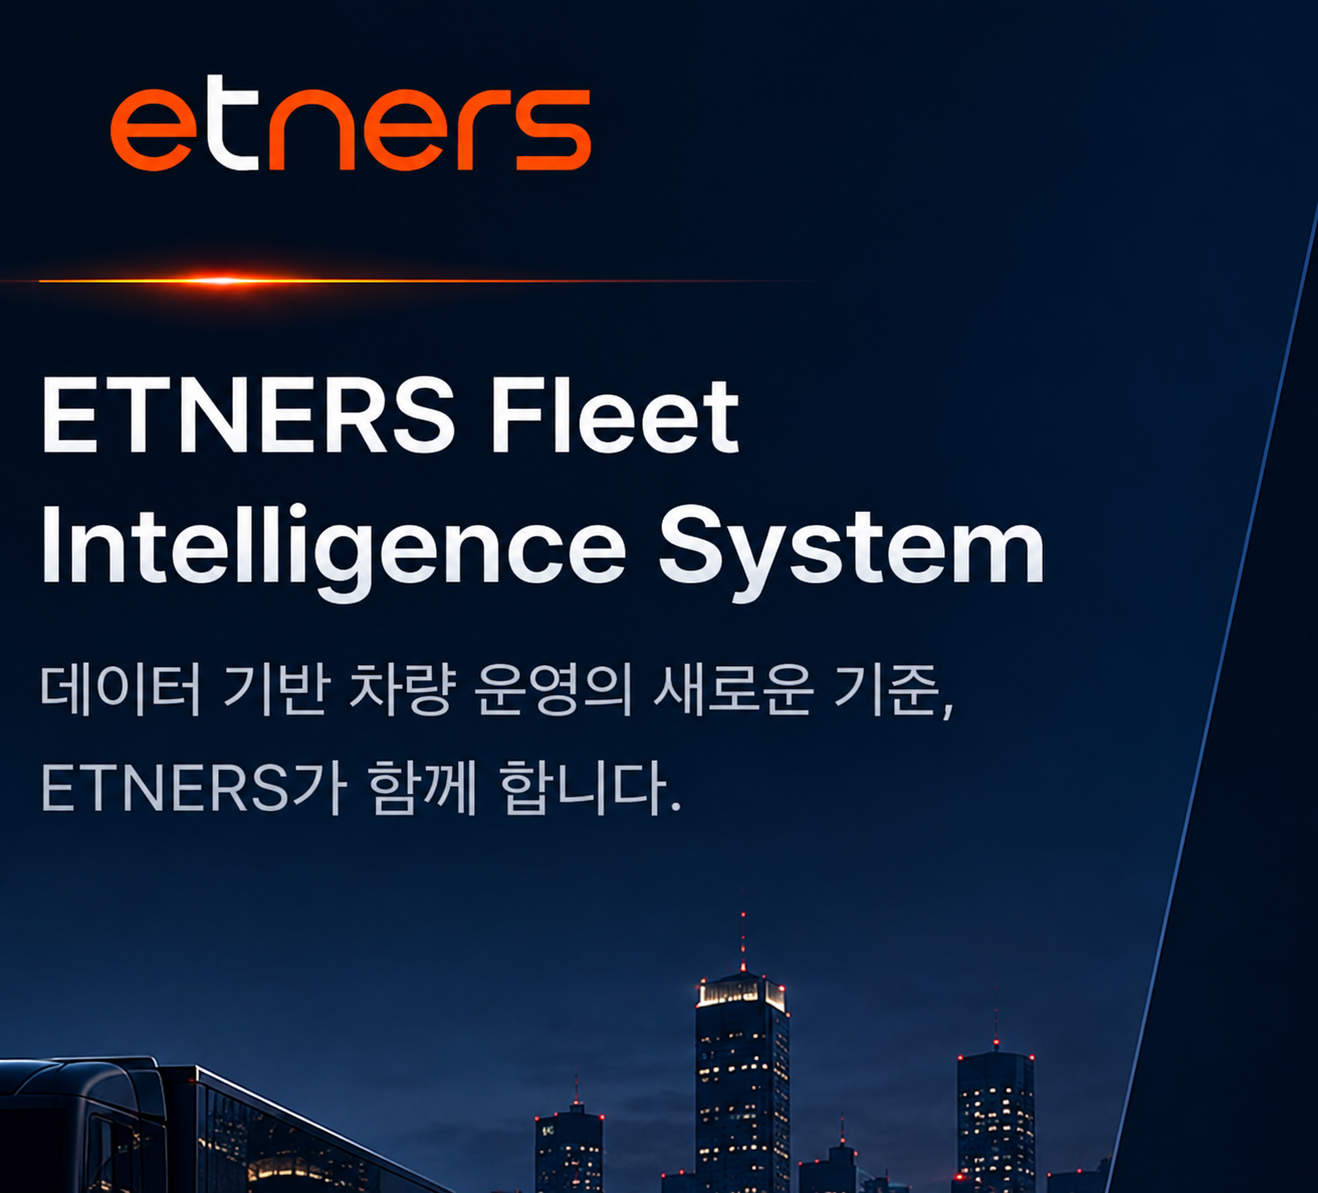
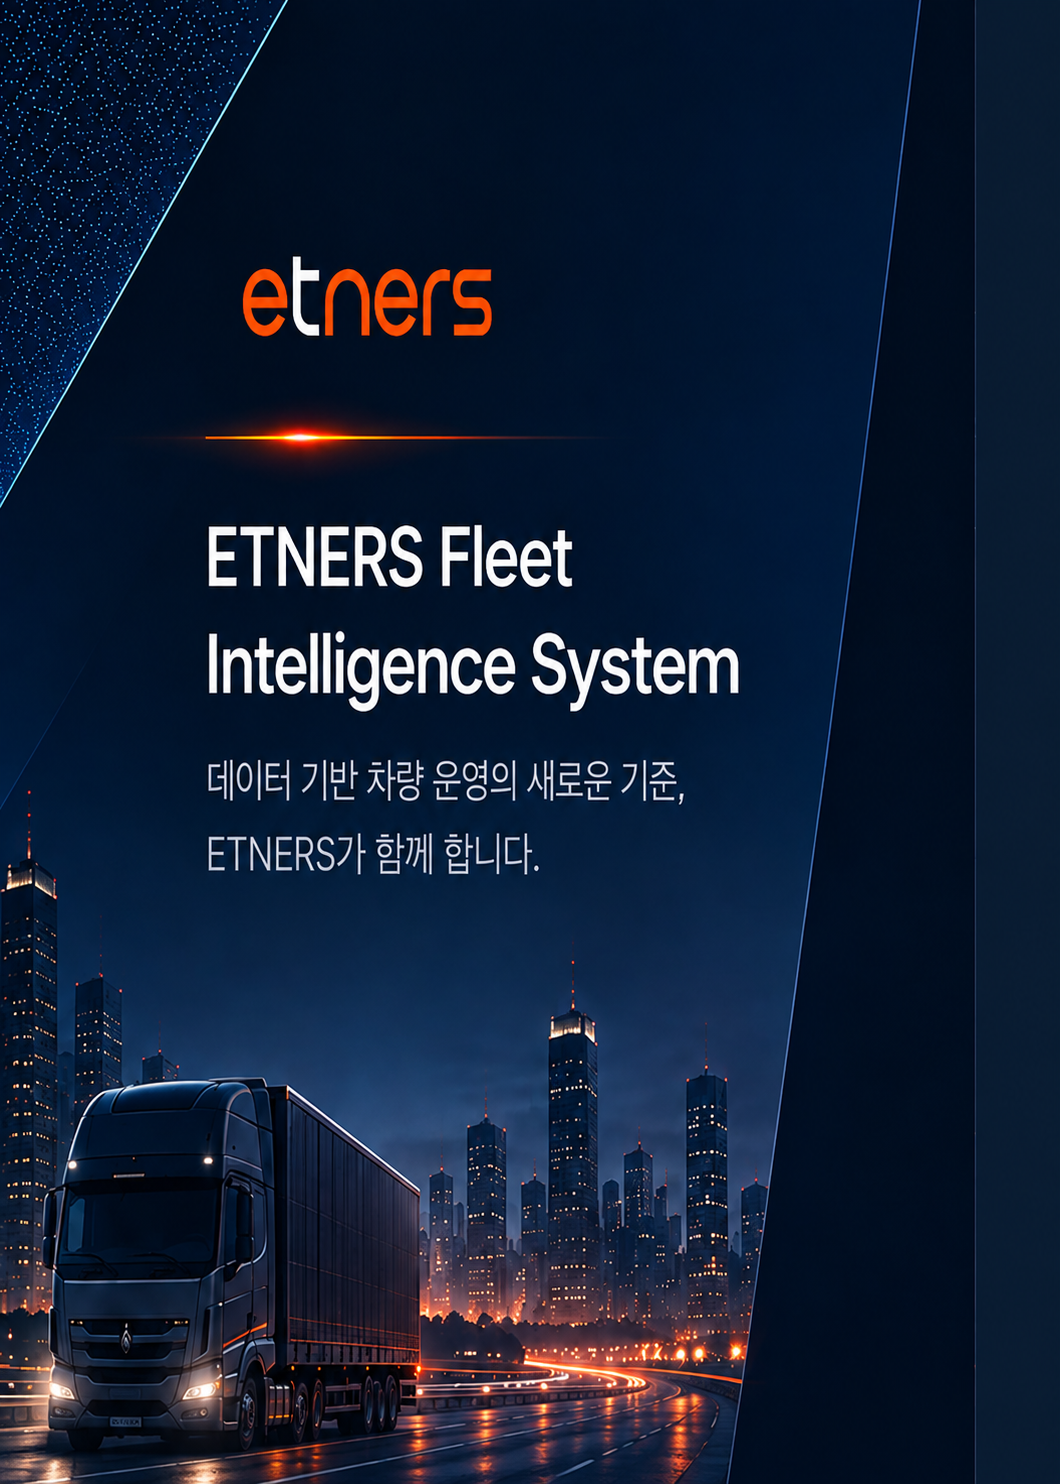
Update login background image

diff --git a/index.html b/index.html
@@ -139,7 +139,7 @@ body.auth-locked{overflow:hidden}
 .final-login-visual{
   position:relative; min-width:0; overflow:hidden;
  background-image:url('./images/login-background-system.png');
-  background-size:80% auto; background-position:center center;
+  background-size:100% auto; background-position:center center;
   border-right:1px solid rgba(105,164,221,.16);
 }
 .final-login-visual::after{
